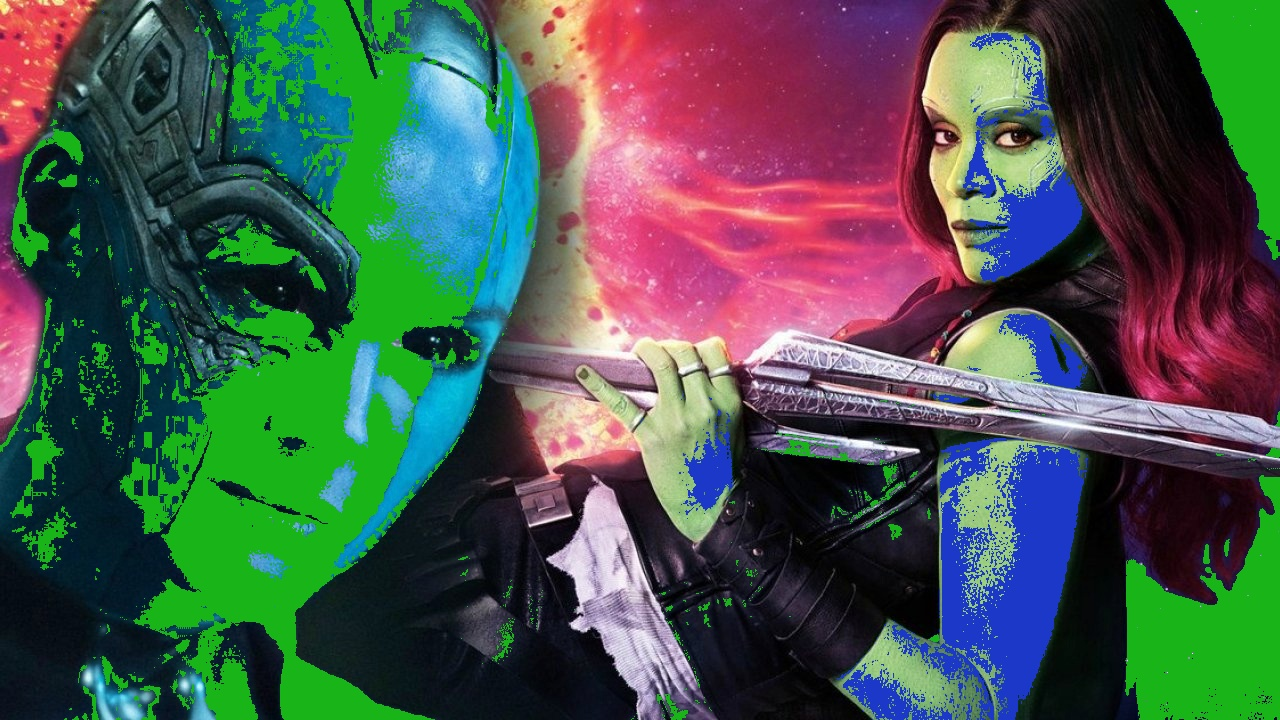
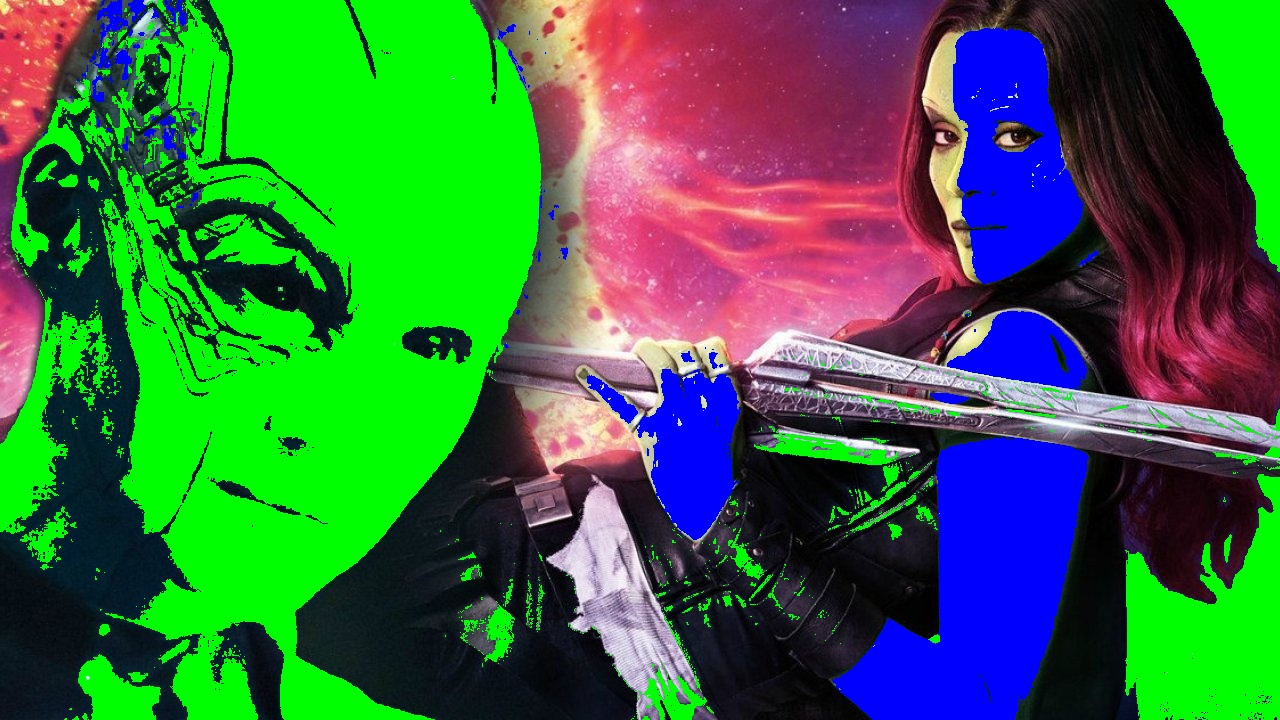
Lab 01

diff --git a/Lab_01/lab1.py b/Lab_01/lab1.py
@@ -1,52 +1,27 @@
-import sys
 import cv2
 import numpy as np
-import matplotlib.pyplot as plt
 
-filename = sys.argv[1]
+# Carregar a imagem
+img = cv2.imread("gamora_nebula.jpg")
+hsv = cv2.cvtColor(img, cv2.COLOR_BGR2HSV)
 
-img = cv2.imread(filename)
-im = cv2.cvtColor(img, cv2.COLOR_BGR2GRAY)
-im_dst = cv2.imread(filename,0)
+# Máscara para tons de azul
+lower_blue = np.array([90, 50, 50])
+upper_blue = np.array([130, 255, 255])
+mask_blue = cv2.inRange(hsv, lower_blue, upper_blue)
 
-print(im)
-print(im.shape)
+# Máscara para tons de verde
+lower_green = np.array([35, 50, 50])
+upper_green = np.array([85, 255, 255])
+mask_green = cv2.inRange(hsv, lower_green, upper_green)
 
-width = im.shape[1]
-height = im.shape[0]
+# Trocar azul por verde
+img[mask_blue > 0] = [0, 255, 0]  # BGR: verde
 
-#ler todos os pixels da imagem
-for c in range(0, width-1):
-	for l in range(0, height-1):
-		px = im.item(l,c)
+# Trocar verde por azul
+img[mask_green > 0] = [255, 0, 0]  # BGR: azul
 
-		#negativo
-		im_dst.itemset(l,c,255-px)
-
-#		if px > 100:
-#			im.itemset(l,c,255)
-
-
-#redimensiona a imagem
-new_width = int(im.shape[1] * .5)
-new_height = int(im.shape[0] * .5)
-dim = (new_width, new_height)
-im_resized = cv2.resize(im, dim, interpolation = cv2.INTER_AREA)
-
-
-#threshold
-ret,im_thresh = cv2.threshold(im,127,255,cv2.THRESH_BINARY)
-
-#mostra imagem com opencv
-cv2.imshow('threashold',im_thresh)
-cv2.imshow('resized',im_resized)
-cv2.imshow('imagem',im)
+cv2.imwrite('resultado.jpg', img)
+cv2.imshow("Troca de Cores", img)
 cv2.waitKey(0)
 cv2.destroyAllWindows()
-
-
-
-
-
-
-

diff --git a/Lab_01/rgb.py b/Lab_01/rgb.py
@@ -3,34 +3,35 @@ import cv2
 import numpy as np
 import matplotlib.pyplot as plt
 
-# Abre imagem
+#abre imagem
 filename = sys.argv[1]
 im = cv2.imread(filename)
 
-# Converte para HSV
-hsv = cv2.cvtColor(im, cv2.COLOR_BGR2HSV)
+#converte cores
+im = cv2.cvtColor(im, cv2.COLOR_BGR2HSV)
 
-# Máscara para pele verde (Gamora) - faixa mais restrita
-lower_green = np.array([45, 100, 50])
-upper_green = np.array([75, 255, 200])
-mask_green = cv2.inRange(hsv, lower_green, upper_green)
+#split
+#im_r,im_g,im_b = cv2.split(im)
+im_r = im[:,:,0]
+im_g = im[:,:,1]
+im_b = im[:,:,2]
 
-# Máscara para pele azul (Nebulosa) - mais fria e menos roxa
-lower_blue = np.array([100, 80, 50])
-upper_blue = np.array([125, 255, 200])
-mask_blue = cv2.inRange(hsv, lower_blue, upper_blue)
 
-# Troca verde por azul
-hsv[np.where(mask_green != 0)] = [115, 220, 200]  # azul saturado
 
-# Troca azul por verde
-hsv[np.where(mask_blue != 0)] = [60, 220, 180]   # verde saturado
+#combina as imagens
+im = cv2.merge([im_r,im_g,im_b])
 
-# Converte de volta para BGR
-output = cv2.cvtColor(hsv, cv2.COLOR_HSV2BGR)
+#mostra imagens
+imagens = [im_r,im_g,im_b]
 
-cv2.imwrite('resultado.jpg', output)
-plt.imshow(cv2.cvtColor(output, cv2.COLOR_BGR2RGB))
-plt.axis('off')
+
+
+x_values = np.arange(256)
+
+plt.subplot(1,3,1),plt.imshow(imagens[0],cmap = 'gray')
+plt.subplot(1,3,2),plt.imshow(imagens[1],cmap = 'gray')
+plt.subplot(1,3,3),plt.imshow(imagens[2],cmap = 'gray')
+
+
+
 plt.show()
-

diff --git a/Lab_01/README.md b/Lab_01/README.md
@@ -8,10 +8,10 @@
 
 
 ## Resposta:
-Para resolver a questão, dei uma mudado na código, não estava sabendo como mudaria completamente tudo de forma correta, a pele verde até que foi, mas a azul tive muitos problemas para acertar, então no final ficou dessa forma o resultado:
+Para resolver a questão, dei uma mudada na código, não estava sabendo como mudaria completamente tudo de forma correta, parte da pele verde foi, mas a azul ainda pegou partes desnecessarias da imagem, mas pelo menos foi oque consegui fazer.:
 
 <p align="center">
   <img src="resultado.jpg" width="50%"/>
 </p>
 
-O código com a resposta está em [rgb.py](./rgb.py).
+O código com a resposta está em [lab1.py](./lab1.py).
